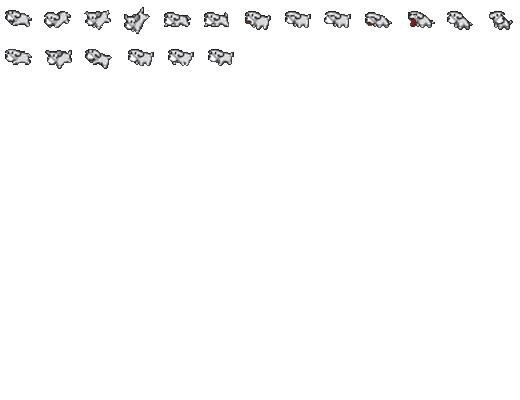
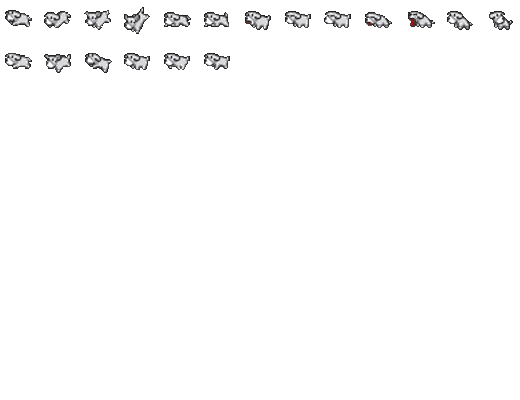
fixed spacing for dog sprite & tried to add enemy (small brown angry)

Changed region(s): [[0.0, 0.12, 0.4615, 0.18]]

diff --git a/src/Enemy.java b/src/Enemy.java
@@ -1,19 +1,34 @@
 import java.awt.*;
+import java.util.ArrayList;
 
 public class Enemy extends Rectangle{
-	public int health;
+	private ArrayList<Integer> tilesX = new ArrayList<Integer>();
+	private ArrayList<Integer> tilesY = new ArrayList<Integer>();
+	private boolean left = false;
+	private boolean right = false;
+	public int health = 1;
+	private int moveX = 10;
 	private Rectangle bounds;
 	public int aniIndex, enemyState, enemyType;
 	public int aniSpeed = 25;
+
 	
-	public Enemy(int x, int y, int width, int height) {
-		this.x = x;
-		this.y = y;
-		this.width = width;
-		this.height = height;
-		bounds = new Rectangle ((int)x, (int)y, 20, 20);
+//	public Enemy(int x, int y, int width, int height) {
+//		this.x = x;
+//		this.y = y;
+//		this.width = width;
+//		this.height = height;
+//		bounds = new Rectangle ((int)x, (int)y, 20, 20);
+//		
+//	}
+	
+	public void update(){
 		
+		moveLeft();
+		moveRight();
+		// do we need refresh? idk
 	}
+	
 	public void setX(int x) {
 		this.x = x;
 	}
@@ -29,4 +44,106 @@ public class Enemy extends Rectangle{
 	public void setBounds(Rectangle bounds) {
 		this.bounds = bounds;
 	}
+	
+	public void moveLeft() {
+		if (checkBlockLeft()[0]==-1) {
+			this.translate(-moveX, 0);
+			int[] blockCollides = checkTileCollisionLeft();
+			if (blockCollides[1] != -1) {
+				this.setLocation((blockCollides[1] + 1) * Main.tileSize, (int) this.getY());
+				setRight(true);
+				moveRight();
+			}
+		}
+	}
+	public void moveRight() {
+		if (checkBlockLeft()[0]==-1) {
+			this.translate(moveX, 0);
+			int[] blockCollides = checkTileCollisionRight();
+			if (blockCollides[1] != -1) {
+				this.setLocation(blockCollides[1] * Main.tileSize - Main.imageWidth, (int) this.getY());
+				setLeft(true);
+				moveLeft();
+			}
+		}
+	}
+	
+	// set moving right
+	public void setRight(boolean bool) {
+		right = bool;
+	}
+	// set moving left
+	public void setLeft(boolean bool) {
+		left = bool;
+	}
+	
+	// checks whether there is a block to the characters right
+		public int[] checkBlockRight() {
+			// {-1, -1} means no block right
+			int[] blockRight = { -1, -1 };
+			int x, y;
+			// check all the blocks that the character is in
+			for (int i = 0; i < tilesX.size(); i++) {
+				x = tilesX.get(i);
+				y = tilesY.get(i);
+				// make sure we are checking within the grid
+				if (x + 1 < Main.tileWidth) {
+					// check if the blockRight is a tile
+					// if it is set blockRight to the tile coords
+					if (Main.currentGrid[y][x + 1] == 1) {
+						blockRight[0] = y;
+						blockRight[1] = x + 1;
+						break;
+					}
+				}
+			}
+			// return tile coords
+			return blockRight;
+		}
+
+		// checks whether the character has crossed into block to its right
+		public int[] checkTileCollisionRight() {
+			int[] blockCollides = checkBlockRight();
+			if (blockCollides[1] != -1) {
+				if (this.getX() + Main.imageWidth <= blockCollides[1] * Main.tileSize) {
+					blockCollides[1] = -1;
+				}
+			}
+			return blockCollides;
+		}
+
+		// checks whether there is a block to the characters left
+		public int[] checkBlockLeft() {
+			// {-1, -1} means no block left
+			int[] blockLeft = { -1, -1 };
+			int x, y;
+			// check all the blocks that the character is in
+			for (int i = 0; i < tilesX.size(); i++) {
+				x = tilesX.get(i);
+				y = tilesY.get(i);
+				// make sure we are checking within the grid
+				if (x - 1 >= 0) {
+					// check if the blockLeft is a tile
+					// if it is set blockLeft to the tile coords
+					if (Main.currentGrid[y][x - 1] == 1) {
+						blockLeft[0] = y;
+						blockLeft[1] = x - 1;
+						break;
+					}
+				}
+			}
+			// return tile coords
+			return blockLeft;
+		}
+
+		// checks whether the character has crossed into block to its left
+		public int[] checkTileCollisionLeft() {
+			int[] blockCollides = checkBlockLeft();
+			if (blockCollides[1] != -1) {
+				if (this.getX() >= (blockCollides[1] + 1) * Main.tileSize) {
+					blockCollides[1] = -1;
+				}
+			}
+			return blockCollides;
+		}
 }

diff --git a/src/Main.java b/src/Main.java
@@ -8,6 +8,7 @@ import javax.swing.*;
 public class Main extends JPanel implements Runnable, KeyListener, MouseListener {
 
 	public static final Character dog = new Character();
+	public static final Enemy bug = new Enemy();
 	public static Character player2 = new Character();
 	public static final int levelWidth = 6760;
 	public static int bgX = 0;
@@ -80,6 +81,7 @@ public class Main extends JPanel implements Runnable, KeyListener, MouseListener
 				g.drawLine(i, 0, i, winHeight);
 			}
 			GameFunctions.drawTiles(g);
+			g.drawImage(Images.pHBug, (int)bug.getX(), (int)bug.getY(), null);
 			g.drawImage(Images.pHDog, (int) dog.getX(), (int) dog.getY(), null);
 		}
 		 
@@ -90,6 +92,8 @@ public class Main extends JPanel implements Runnable, KeyListener, MouseListener
 			repaint();
 			if (gameState == 2) {
 				dog.update();
+				bug.update();
+				
 			}
 			try {
 				Thread.sleep(1000/fps);

diff --git a/src/Images.java b/src/Images.java
@@ -19,6 +19,7 @@ public class Images {
 	public static BufferedImage dogRight1;
 	public static BufferedImage dogLeft1;
 	public static BufferedImage pHDog;
+	public static BufferedImage pHBug;
 	public static BufferedImage pHTile;
 	public static BufferedImage pHBG;
 	
@@ -27,6 +28,7 @@ public class Images {
 		level = ImageIO.read(new File("level.png"));
 		pHTile = ImageIO.read(new File("20dirt.png"));
 		pHDog = ImageIO.read(new File("pHChar.png"));
+		pHBug = ImageIO.read(new File("mad.png"));
 		pHBG = ImageIO.read(new File("scrollBackground.png"));
 		dogRight1 = ImageIO.read(new File("whitedogright.png"));
 		dogLeft1 = ImageIO.read(new File("whitedogleft.png"));
